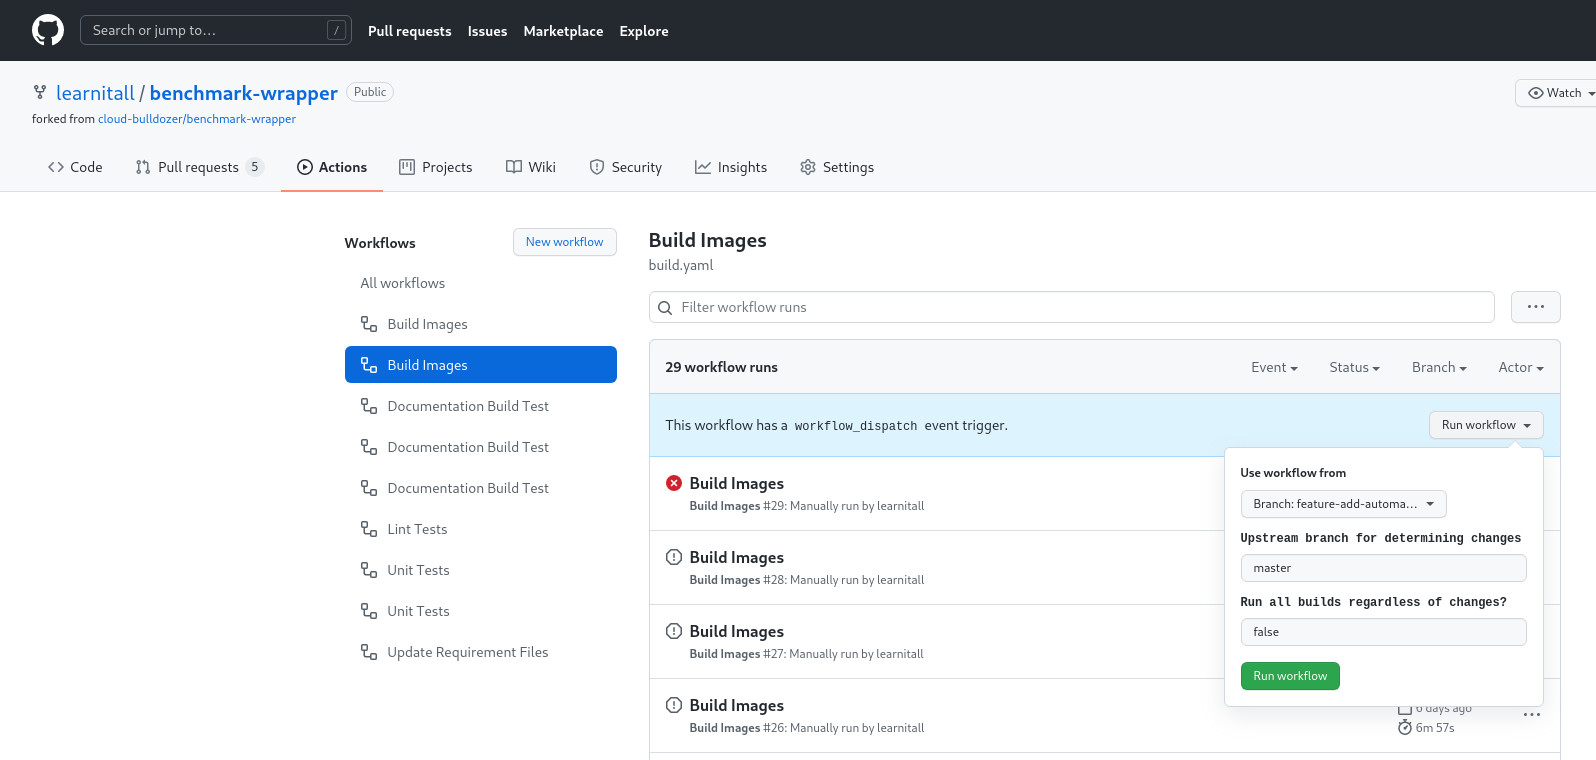
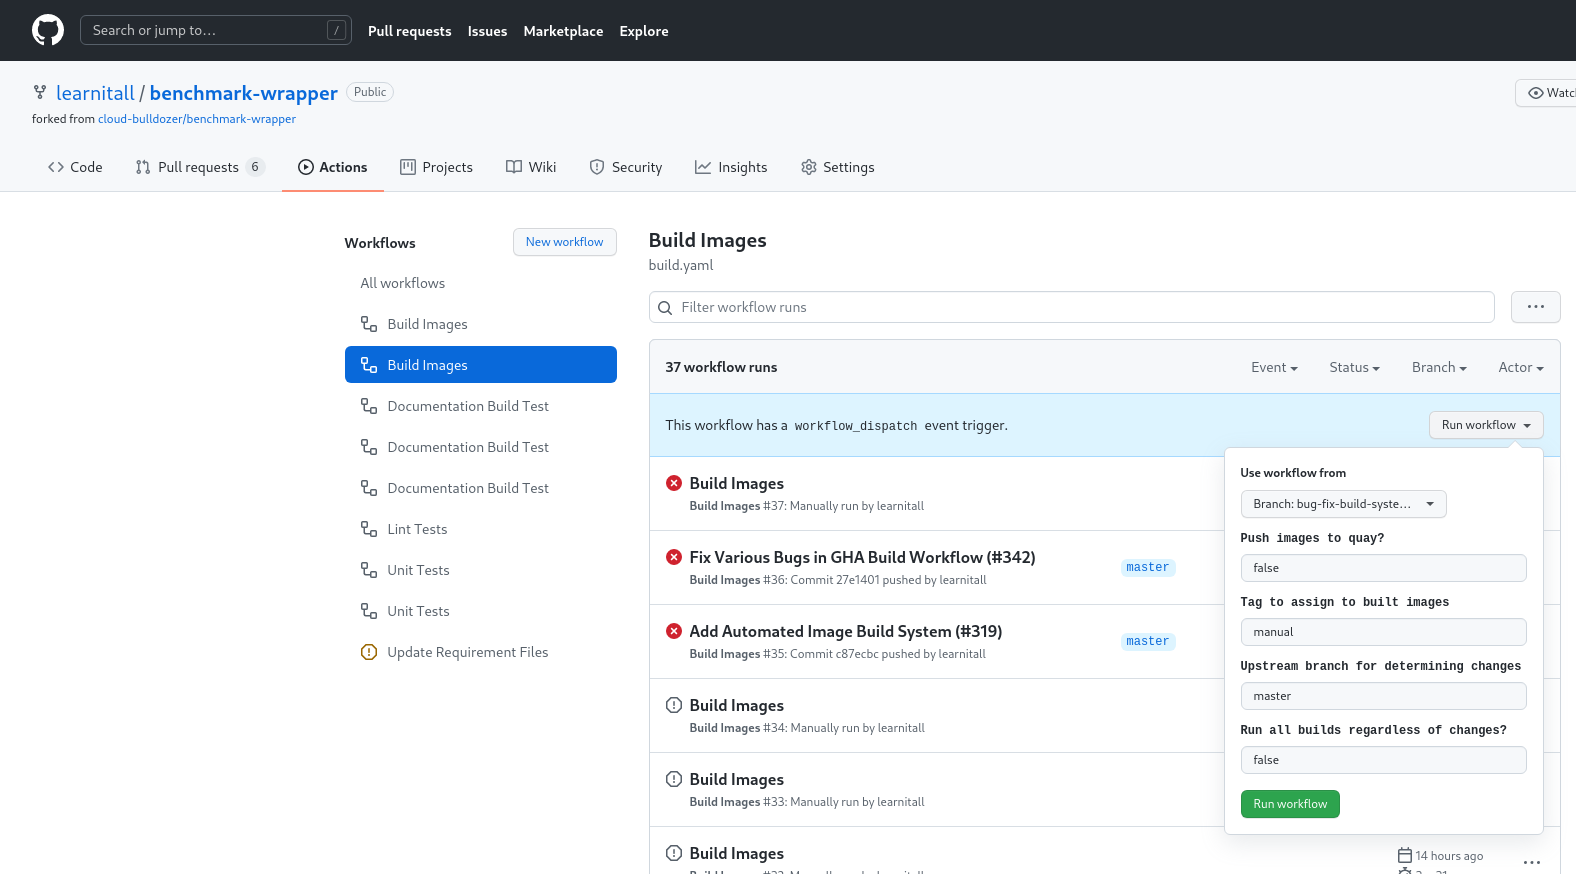
Fix Tagging and Push Logic in GHA Build Workflow (#344)
* Change workflow to only push to quay on master

Additionally, only tag with latest on master and add

ability to control push behavior on manual trigger

* Add logic to manifest step to handle missing images

If an image fails to build and does not get pushed to quay, then
it cannot be added to the manifest. However, the manifest step
tries to add it in anyways and fails, meaning the manifest will
only be updated if all architectures for a docker image succeed.
We want to allow for the manifest to be updated even if one
of the architectures fails, so that while we debug the new
image can be used.

* Update documentation to reflect previous changes

* Fix typo in conditional (Skipped -> skipped)

* Update documentation with new manual trigger params

* Attempt to fix conditional logic prevent manifest job from running

* Add conditional to only push manifest if not empty

* Remove usage of podman image exists command

Does not check registry, only checks local storage

* Remove pr types opened and reopened

Do not need to run on these types, as when the PR

is first opened, it won't be labeled as ok to test.

Additionally, reopening a PR does not change the branch and therefore does not require a rebuild

* Add missing id to push image step

diff --git a/docs/source/contributing/build_testing.md b/docs/source/contributing/build_testing.md
@@ -5,14 +5,14 @@
 benchmark-wrapper uses [GitHub Actions](https://docs.github.com/en/actions) to automate builds of wrapper Docker images. This is done through the workflow defined in [build.yaml](https://github.com/cloud-bulldozer/benchmark-wrapper/blob/master/.github/workflows/build.yaml). The basic structure of the workflow is as follows:
 
 1. Use [ci/build_matrix.py](https://github.com/cloud-bulldozer/benchmark-wrapper/blob/master/ci/build_matrix.py) to discover Dockerfile candidates for build and create two [GitHub Actions Job Matrices](https://docs.github.com/en/actions/reference/workflow-syntax-for-github-actions#jobsjob_idstrategymatrix). One will be a 'build matrix' that will organize building each selected Dockerfile candidate on each supported architecture. The other will be a 'manifest matrix' that will organize creating a manifest for each selected Dockerfile candidate that includes the built images across the supported architectures.
-1. For each Dockerfile on each architecture, build the Dockerfile, tag with `latest` and the GitHub commit SHA that triggered the build, and then push the image to quay.
-1. For each Dockerfile, create a manifest that includes each architecture image and then push it to quay.
+1. For each Dockerfile on each architecture, build the Dockerfile, and if on the master branch, then tag with `latest` and push to quay. If the build was manually triggered by a user, then instead of tagging with `latest`, tag with the given input tag and only push to quay if the user says to do so.
+1. If we pushed to quay in the previous step, then for each Dockerfile, create a manifest that includes each successfully built architecture image and then push it to quay.
 
 Note that:
 
 * A Dockerfile candidate is a Dockerfile within the benchmark-wrapper repository that sits underneath the parent directory for each wrapper. It's expected that each wrapper has a single Dockerfile that is compatible across architectures, rather than having multiple Dockerfiles split by architecture.
 * The build matrix Python script will dynamically discover all available Dockerfiles within the benchmark-wrapper repository and then only select those that need to be built based on what has changed.
-*  Right now we support `x86_64` are currently working on `arm64` images.
+*  Right now we support `amd64` are currently working on `arm64` images.
 
 Here's a diagram summarizing all those words:
 
@@ -20,19 +20,19 @@ Here's a diagram summarizing all those words:
 
 And now let's work through an example, just to drive it all home.
 
-Let's say that I push two changes to the main branch, one within the uperf wrapper under `snafu/benchmarks/uperf` and one within the fio wrapper under `snafu/fio_wrapper`. Our GHA Workflow will start by kicking off a job to execute the build matrix Python script. The script will discover that the fio and uperf benchmarks have changed and that their Docker images need to be rebuilt. Four jobs will then be kicked off to do the following in parallel with [fail-fast](https://docs.github.com/en/actions/reference/workflow-syntax-for-github-actions#jobsjob_idstrategyfail-fast) disabled:
+Let's say that I push two changes to the master branch, one within the uperf wrapper under `snafu/benchmarks/uperf` and one within the fio wrapper under `snafu/fio_wrapper`. Our GHA Workflow will start by kicking off a job to execute the build matrix Python script. The script will discover that the fio and uperf benchmarks have changed and that their Docker images need to be rebuilt. Four jobs will then be kicked off to do the following in parallel with [fail-fast](https://docs.github.com/en/actions/reference/workflow-syntax-for-github-actions#jobsjob_idstrategyfail-fast) disabled:
 
-1. Build uperf on `x86_64` and push to quay
-1. Build uperf on `arm64` and push to quay
-1. Build fio on `x86_64` and push to quay
-1. Build fio on `arm64` and push to quay
+1. Build uperf on `amd64`, tag with `amd64-latest`, and push to quay
+1. Build uperf on `arm64`, tag with `arm64-latest`, and push to quay
+1. Build fio on `amd64`, tag with `amd64-latest`, and push to quay
+1. Build fio on `arm64`, tag with `arm64-latest`, and push to quay
 
 After these jobs have completed, regardless of pass/fail for each job, two more jobs will be kicked off to do the following (in parallel again with no fast-fail):
 
-1. Create a manifest for uperf with the `x86_64` and `arm64` images and push to quay
-1. Create a manifest for fio with the `x86_64` and `arm64` images and push to quay
+1. Create a manifest named `latest` for uperf with the `amd64-latest` and `arm64-latest` images and push to quay
+1. Create a manifest named `latest` for fio with the `amd64-latest` and `arm64-latest` images and push to quay
 
-If the uperf image on `arm64` fails to build, then the `x86_64` image will still be built and pushed to quay, however the job for creating the uperf manifest will fail. The manifest will only be updated fully if all images for a benchmark are successfully built.
+If the uperf image on `arm64` fails to build, then the `amd64` image will still be built and pushed to quay. The manifest will be updated with the new `amd64` image and still reference the existing `arm64` image within quay.
 
 Now let's say that I push to the main branch a change within `run_snafu.py`, our main entrypoint script. Our GHA Workflow will again kick off a job to execute the build matrix Python script. This time the script sees that a core component of snafu has changed and that a rebuild is required for each wrapper image. The necessary image build and manifest build jobs will then be kicked off.
 
